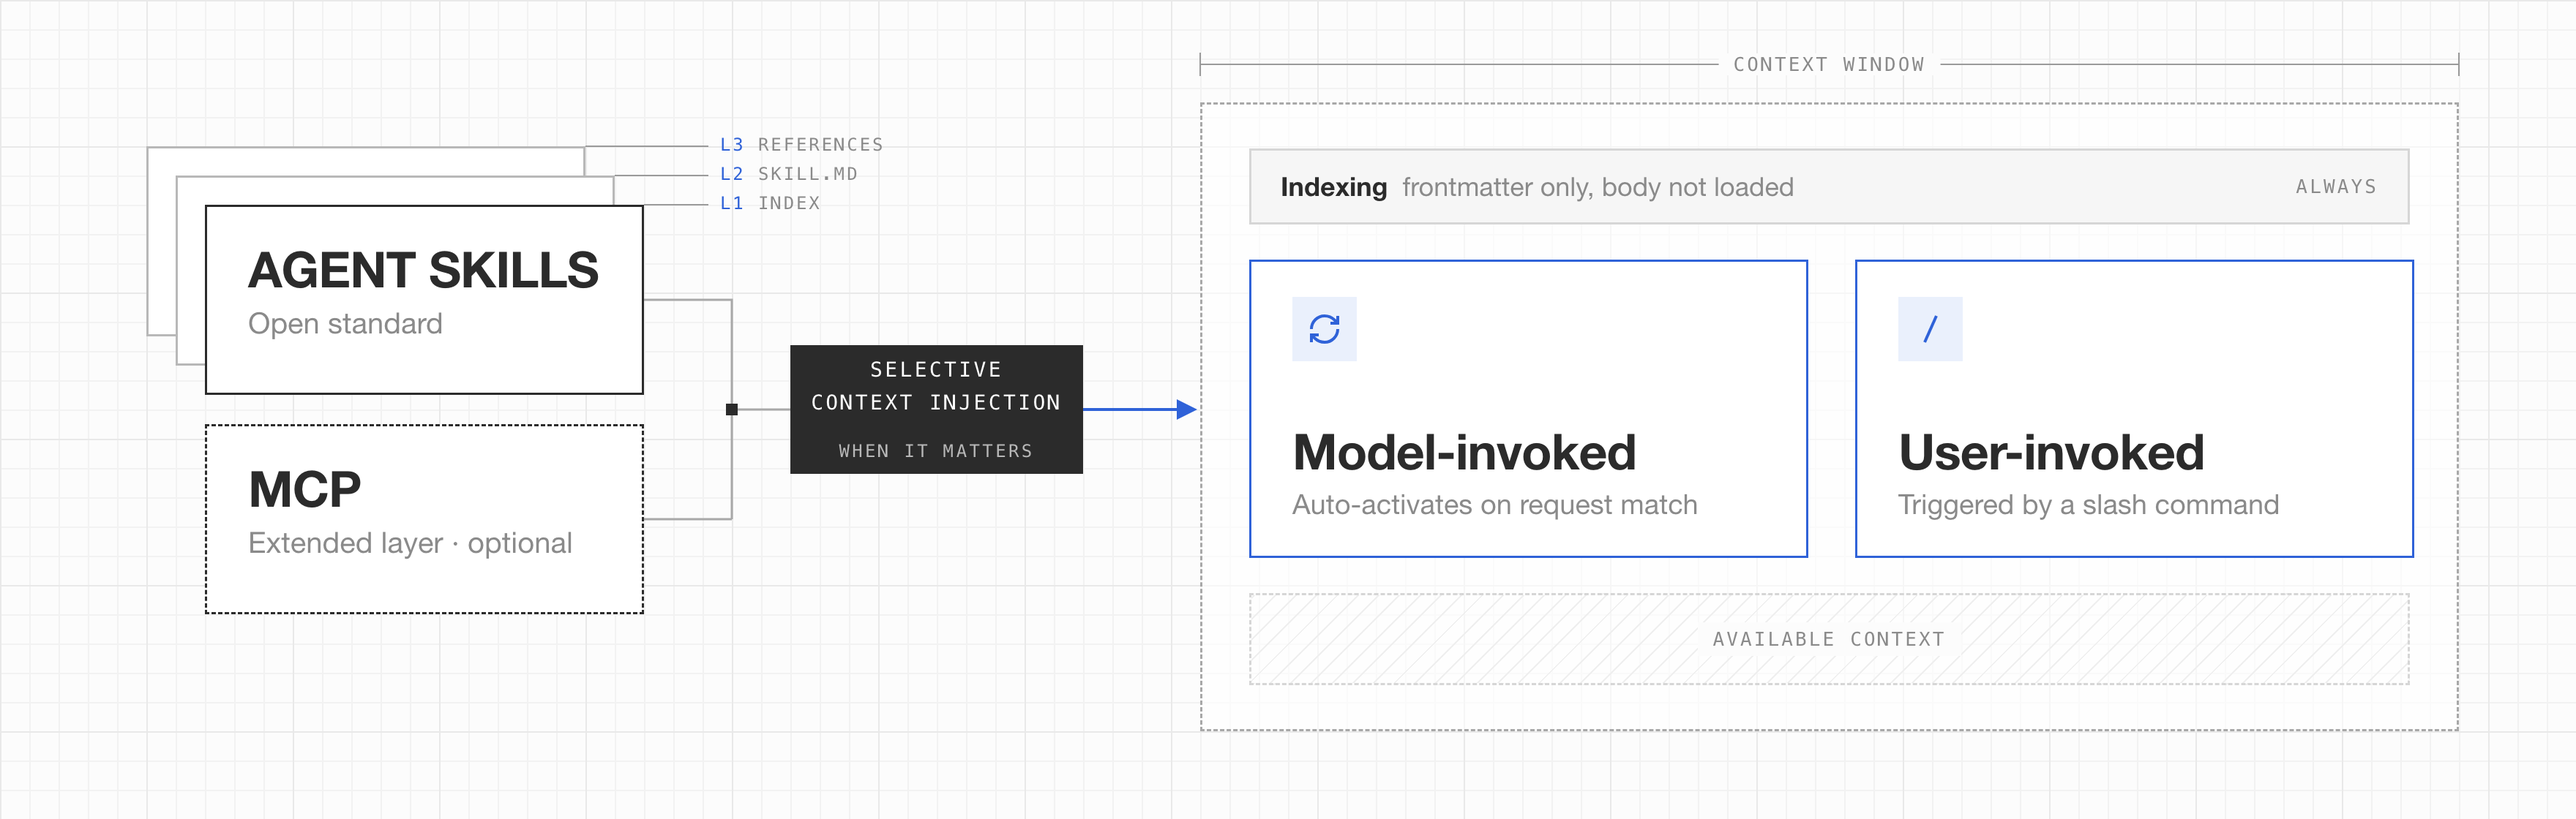
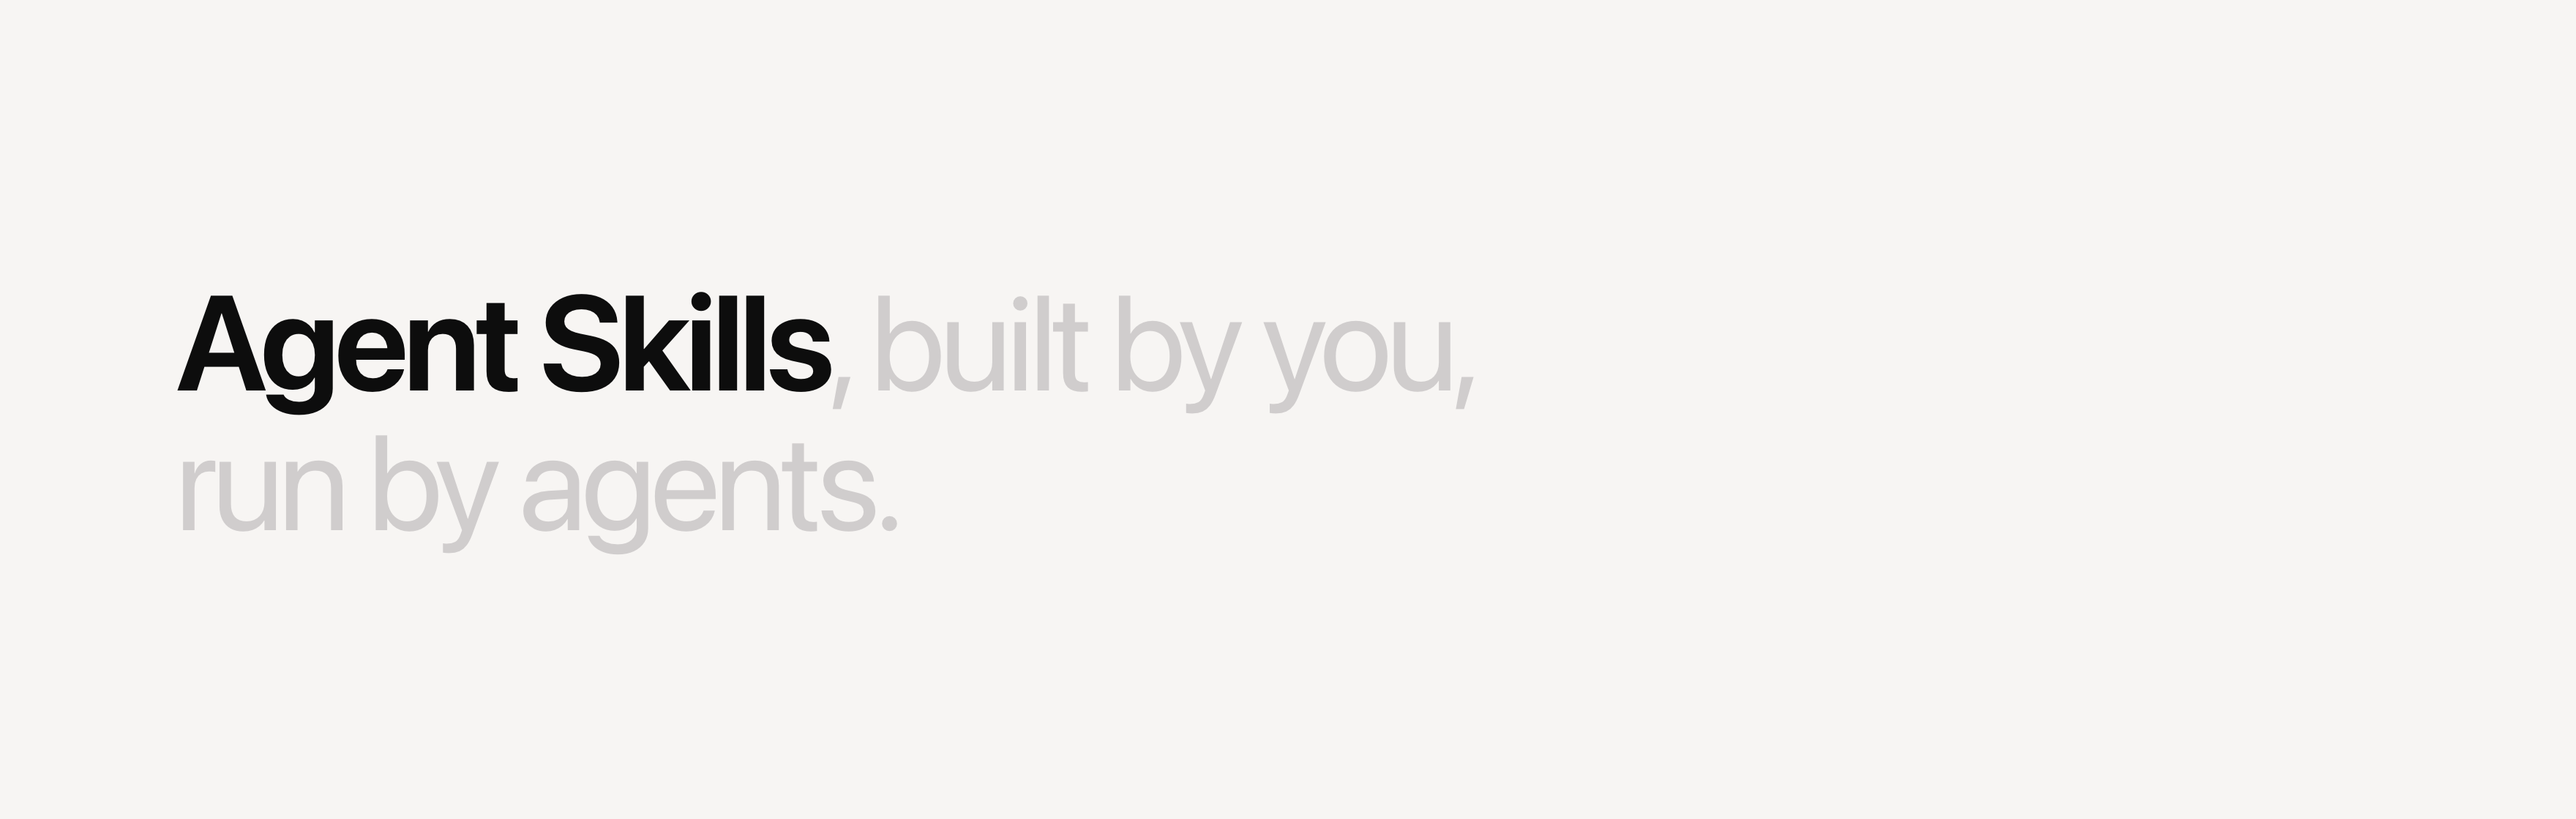
docs: rework readme and add concept image

diff --git a/.github/assets/preview.html b/.github/assets/preview.html
@@ -5,124 +5,31 @@
 <title>Agent Skills preview</title>
 <style>
   :root {
-    --ink: #2b2b2b;
-    --muted: #8a8a8a;
-    --faint: #b8b8b8;
-    --card: #ffffff;
-    --edge: #d6d6d6;
-    --bg: #fcfcfc;
-    --accent: #2f62d8;
-    --accent-soft: #eaf0fc;
+    --bg: #f7f5f3;
+    --ink: #0d0d0d;
+    --muted: #d0cdcd;
   }
   * { box-sizing: border-box; margin: 0; }
   html, body { width: 1760px; height: 560px; overflow: hidden; }
   body {
     position: relative;
-    font-family: "Helvetica Neue", Helvetica, Arial, sans-serif;
-    color: var(--ink);
-    background-color: var(--bg);
-    background-image:
-      linear-gradient(#e9e9e9 1px, transparent 1px),
-      linear-gradient(90deg, #e9e9e9 1px, transparent 1px),
-      linear-gradient(#f2f2f2 1px, transparent 1px),
-      linear-gradient(90deg, #f2f2f2 1px, transparent 1px);
-    background-size: 100px 100px, 100px 100px, 20px 20px, 20px 20px;
+    font-family: system-ui, -apple-system, BlinkMacSystemFont, sans-serif;
+    color: var(--muted);
+    background: var(--bg);
     -webkit-font-smoothing: antialiased;
+    text-rendering: optimizeLegibility;
+    user-select: none; -webkit-user-select: none;
   }
-  .mono { font-family: "SF Mono", ui-monospace, Menlo, monospace; letter-spacing: 0.12em; text-transform: uppercase; }
-  .code { font-family: "SF Mono", ui-monospace, Menlo, monospace; }
-  .abs { position: absolute; }
 
-  .bp { position: absolute; background: var(--card); border: 1.5px solid var(--ink); }
-
-  .card { padding: 24px 28px; }
-  .card h3 { font-size: 34px; font-weight: 600; letter-spacing: -0.015em; line-height: 1.1; }
-  .card p { font-size: 20px; color: var(--muted); margin-top: 6px; }
-
-  .tag {
-    left: 540px; top: 236px; width: 200px; height: 88px;
-    display: grid; place-items: center; text-align: center;
-    background: var(--ink); color: #fff; font-size: 14px; line-height: 1.6;
+  .t {
+    position: absolute; left: 120px; top: 0; height: 560px;
+    display: flex; align-items: center;
+    font-size: 92px; line-height: 1.04; letter-spacing: -0.035em;
   }
-  .tag small { display: block; color: var(--faint); font-size: 12px; }
-
-  .window { left: 820px; top: 70px; width: 860px; height: 430px; border: 1.5px dashed #a8a8a8; background: rgba(255,255,255,.6); }
-  .always {
-    position: absolute; left: 32px; right: 32px; top: 30px; height: 52px;
-    border: 1.5px solid var(--edge); background: #f6f6f6;
-    display: flex; align-items: center; justify-content: space-between; padding: 0 20px;
-    font-size: 18px; color: var(--muted);
-  }
-  .always b { color: var(--ink); font-weight: 600; }
-  .always .mono { font-size: 13px; }
-  .ctx { top: 106px; width: 382px; height: 204px; display: flex; flex-direction: column; justify-content: space-between; border-color: var(--accent); }
-  .ico { width: 44px; height: 44px; background: var(--accent-soft); display: grid; place-items: center; }
-  .ctx p { font-size: 19px; }
-  .free {
-    position: absolute; left: 32px; right: 32px; top: 334px; bottom: 30px;
-    border: 1.5px dashed var(--edge);
-    background: repeating-linear-gradient(-45deg, transparent 0 9px, #efefef 9px 10px);
-    display: grid; place-items: center; font-size: 13px; color: var(--muted);
-  }
-  .free span { background: var(--bg); padding: 4px 10px; }
-
-  .dim { font-size: 13px; color: var(--muted); background: var(--bg); padding: 0 10px; transform: translate(-50%, -50%); white-space: nowrap; }
-
-  svg.wires { position: absolute; inset: 0; pointer-events: none; }
-
-  .ghost { position: absolute; width: 300px; height: 130px; background: var(--card); border: 1.5px solid var(--faint); }
-  .lead { font-size: 12px; color: var(--muted); }
-  .lead b { color: var(--accent); font-weight: 400; }
-  .src { left: 140px; width: 300px; height: 130px; }
-  .mcp { border-style: dashed; }
+  .t b { color: var(--ink); font-weight: 650; }
 </style>
 </head>
 <body>
-
-<svg class="wires" width="1760" height="560" viewBox="0 0 1760 560" fill="none">
-  <path d="M820 36V52M1680 36V52M820 44H1680" stroke="#9a9a9a" stroke-width="1"/>
-  <path d="M740 280H806" stroke="#2f62d8" stroke-width="2"/>
-  <path d="M804 273 818 280 804 287z" fill="#2f62d8"/>
-
-  <g stroke="#a8a8a8" stroke-width="1.5">
-    <path d="M440 205H500V355M440 355H500M500 280H540"/>
-  </g>
-  <rect x="496" y="276" width="8" height="8" fill="#2b2b2b"/>
-  <g stroke="#9a9a9a" stroke-width="1" fill="none">
-    <path d="M400 100H484M420 120H484M440 140H484"/>
-  </g>
-</svg>
-
-<div class="ghost" style="left:100px;top:100px;"></div>
-<div class="ghost" style="left:120px;top:120px;"></div>
-<div class="bp card src" style="top:140px;">
-  <h3>AGENT SKILLS</h3><p>Open standard</p>
-</div>
-<div class="abs lead mono" style="left:492px;top:92px;"><b>L3</b> references</div>
-<div class="abs lead mono" style="left:492px;top:112px;"><b>L2</b> SKILL.md</div>
-<div class="abs lead mono" style="left:492px;top:132px;"><b>L1</b> index</div>
-
-<div class="bp card src mcp" style="top:290px;">
-  <h3>MCP</h3><p>Extended layer · optional</p>
-</div>
-
-<div class="abs dim mono" style="left:1250px;top:44px;">Context Window</div>
-
-<div class="abs tag mono">Selective<br>Context Injection<small>when it matters</small></div>
-
-<div class="abs window">
-  <div class="always"><span><b>Indexing</b> &nbsp;frontmatter only, body not loaded</span><span class="mono">Always</span></div>
-  <div class="bp card ctx" style="left:32px;">
-    <div class="ico"><svg width="24" height="24" viewBox="0 0 24 24" fill="none" stroke="#2f62d8" stroke-width="2" stroke-linejoin="miter"><path d="M3 12a9 9 0 0 1 9-9 9.75 9.75 0 0 1 6.74 2.74L21 8M21 3v5h-5M21 12a9 9 0 0 1-9 9 9.75 9.75 0 0 1-6.74-2.74L3 16M8 16H3v5"/></svg></div>
-    <div><h3>Model-invoked</h3><p>Auto-activates on request match</p></div>
-  </div>
-  <div class="bp card ctx" style="left:446px;">
-    <div class="ico"><svg width="24" height="24" viewBox="0 0 24 24" fill="none" stroke="#2f62d8" stroke-width="2"><path d="M16 3 8 21"/></svg></div>
-    <div><h3>User-invoked</h3><p>Triggered by a slash command</p></div>
-  </div>
-  <div class="free mono"><span>Available Context</span></div>
-</div>
-
-
+<p class="t"><span><b>Agent Skills</b>, built by you,<br>run by agents.</span></p>
 </body>
 </html>

diff --git a/.github/assets/concept.html b/.github/assets/concept.html
@@ -1,0 +1,86 @@
+<!doctype html>
+<html lang="en">
+<head>
+<meta charset="utf-8">
+<title>Agent Stack concept</title>
+<style>
+  :root {
+    --bg: #f7f5f3;
+    --card: #fbfbfa;
+    --ink: #0d0d0d;
+    --label: #757575;
+    --muted: #a8a5a5;
+    --border: rgba(13, 13, 13, .09);
+    --font-mono: ui-monospace, "SFMono-Regular", Menlo, Monaco, Consolas, monospace;
+  }
+  * { box-sizing: border-box; margin: 0; }
+  html, body { width: 1554px; height: 408px; overflow: hidden; }
+  body {
+    position: relative;
+    font-family: system-ui, -apple-system, BlinkMacSystemFont, sans-serif;
+    color: var(--ink);
+    background: var(--bg);
+    -webkit-font-smoothing: antialiased;
+    text-rendering: optimizeLegibility;
+    user-select: none; -webkit-user-select: none;
+  }
+
+  svg { position: absolute; inset: 0; pointer-events: none; z-index: 5; }
+
+  .card {
+    position: absolute; width: 236px; height: 132px; padding: 19px 20px 15px;
+    display: flex; flex-direction: column;
+    background: var(--card); border: 1px solid var(--border); border-radius: 0;
+    box-shadow: 0 1px 2px rgba(13, 13, 13, .05);
+  }
+  .card h3 { font-size: 32px; font-weight: 600; letter-spacing: -0.02em; line-height: 1.05; }
+  .card .sub { margin-top: 3px; font-family: var(--font-mono); font-size: 14px; color: var(--muted); white-space: nowrap; }
+  .card .foot { margin-top: auto; padding-top: 10px; display: flex; align-items: center; }
+  .pill {
+    padding: 2px 8px; background: #efeeec; color: var(--label);
+    font-size: 12px; font-weight: 700; letter-spacing: 0.08em; text-transform: uppercase;
+  }
+
+  .card.start { border-color: var(--ink); box-shadow: 0 0 0 5px rgba(13, 13, 13, .06); }
+  .card.start .pill { background: var(--ink); color: var(--bg); }
+  .card.solid { box-shadow: none; background: transparent; }
+  .card.mcp { background: #e8e6e4; box-shadow: none; }
+  .card.mcp .sub { color: #5f5c5c; }
+  .card.mcp .pill { background: rgba(13, 13, 13, .07); color: #4d4b4b; }
+
+  .label {
+    position: absolute; transform: translate(-50%, -50%); z-index: 6;
+    padding: 3px 6px; background: var(--bg);
+    font-family: var(--font-mono); font-size: 12px; line-height: 1; color: #8d8a8a; white-space: nowrap;
+  }
+</style>
+</head>
+<body>
+<svg width="1554" height="408" viewBox="0 0 1554 408" fill="none" stroke="#8d8a8a" stroke-width="1">
+  <path d="M364 114.5H478"/><path d="M718 114.5H832"/><path d="M1072 114.5H1186"/><path d="M600.5 180V224" stroke-dasharray="6 6.67"/>
+  <g fill="#8d8a8a" stroke="none"><path d="M482 114.5l-6 -3.5v7z"/><path d="M836 114.5l-6 -3.5v7z"/><path d="M1190 114.5l-6 -3.5v7z"/><path d="M600.5 228l-3.5 -6h7z"/></g>
+  <g fill="none"><path d="M128.5 64.5V48.5H144.5M347.5 48.5H363.5V64.5M363.5 163.5V179.5H347.5M144.5 179.5H128.5V163.5" stroke="rgba(13,13,13,.35)" stroke-width="1.75" stroke-linejoin="miter" stroke-linecap="butt"/><path d="M482.5 60.5V48.5H494.5M705.5 48.5H717.5V60.5M717.5 167.5V179.5H705.5M494.5 179.5H482.5V167.5" stroke="rgba(13,13,13,.35)" stroke-width="1.75" stroke-linejoin="miter" stroke-linecap="butt"/><path d="M836.5 60.5V48.5H848.5M1059.5 48.5H1071.5V60.5M1071.5 167.5V179.5H1059.5M848.5 179.5H836.5V167.5" stroke="rgba(13,13,13,.35)" stroke-width="1.75" stroke-linejoin="miter" stroke-linecap="butt"/><path d="M1190.5 60.5V48.5H1202.5M1413.5 48.5H1425.5V60.5M1425.5 167.5V179.5H1413.5M1202.5 179.5H1190.5V167.5" stroke="rgba(13,13,13,.35)" stroke-width="1.75" stroke-linejoin="miter" stroke-linecap="butt"/><path d="M482.5 240.5V228.5H494.5M705.5 228.5H717.5V240.5M717.5 347.5V359.5H705.5M494.5 359.5H482.5V347.5" stroke="rgba(13,13,13,.35)" stroke-width="1.75" stroke-linejoin="miter" stroke-linecap="butt"/></g>
+</svg>
+<div class="label" style="left:423px; top:114.5px">Redirects</div><div class="label" style="left:777px; top:114.5px">References</div><div class="label" style="left:1131px; top:114.5px">Loads</div>
+<div class="card start" style="left:128px; top:48px">
+  <h3>AGENTS.md</h3><div class="sub">Entry point, kept short</div>
+  <div class="foot"><span class="pill">Entry</span></div>
+</div>
+<div class="card " style="left:482px; top:48px">
+  <h3>Skill</h3><div class="sub">Domain rules</div>
+  <div class="foot"><span class="pill">Context</span></div>
+</div>
+<div class="card solid" style="left:836px; top:48px">
+  <h3>Playbook</h3><div class="sub">Defined procedure</div>
+  <div class="foot"><span class="pill">Reference</span></div>
+</div>
+<div class="card " style="left:1190px; top:48px">
+  <h3>Skill</h3><div class="sub">Loaded on demand</div>
+  <div class="foot"><span class="pill">Context</span></div>
+</div>
+<div class="card mcp" style="left:482px; top:228px">
+  <h3>MCP Server</h3><div class="sub">External Connection</div>
+  <div class="foot"><span class="pill">Optional</span></div>
+</div>
+</body>
+</html>

diff --git a/README.md b/README.md
@@ -1,18 +1,20 @@
-![Agent Skills](.github/assets/preview.png)
+![Agent Skills](.github/assets/preview-animated.svg)
 
-<div align="center">
+The agent stack, or profile, is a curated selection of what an agent works with: the skills it follows, the MCP servers it calls, and the scripts it runs.
 
-Agent Skills, built by you, run by agents. Follows the [Agent Skills](https://agentskills.io/home) open standard.
+## The Concept
 
-Curated Agent Stack, production-tested. Context, loaded when it matters.
+Context, loaded when it matters. [`AGENTS.md`](AGENTS.md) stays short and redirects the agent to a skill. The skill references a playbook, and the playbook loads further skills on demand. The concept builds on the [Agent Skills](https://agentskills.io/home) open standard.
 
-</div>
+![AGENTS.md redirects to a skill, the skill references a playbook, and the playbook loads another skill. A skill may call an optional MCP server.](.github/assets/concept@2x.png)
 
-## Agent Skills
+MCP servers are optional, and this repo only links them. The [Agent Plugins specification](https://agent-plugins.org/specification) describes skills and MCP servers as the two parts of a plugin. This repo ships no `plugin.json` or `mcp.json`, so it follows the idea but not the format.
+
+## Skills
 
 Skills are either **Model-invoked**, where the agent activates them when your request matches, or **User-invoked** via a slash command like `/triage`.
 
-**Upstream** skills are mirrored, not forked. Their authors own them; a weekly sync keeps them updated.
+A few skills come from **Upstream** authors, mirrored and not forked. A weekly sync keeps them updated.
 
 ### Engineering
 
@@ -32,9 +34,9 @@ Skills are either **Model-invoked**, where the agent activates them when your re
 - [obsidian-cli](skills/obsidian-cli/): Read, search, and manage Obsidian via CLI. **Upstream**, Author: [Steph Ango](https://github.com/kepano/obsidian-skills/tree/main/skills/obsidian-cli)
 - [anatomy](skills/anatomy/): Animated isometric SVG illustrations. **Upstream**, Author: [Ryan](https://github.com/wheresryan22/anatomy)
 
-## Extended Layer
+## MCP Servers
 
-Recommended, not required. Extra tools for the agent, over MCP.
+Optional, not required. Extra tools for the agent, over MCP.
 
-- Type: **MCP** | [fff](https://github.com/dmtrKovalenko/fff)
-- Type: **MCP** | [Chrome DevTools](https://github.com/ChromeDevTools/chrome-devtools-mcp)
+- [fff](https://github.com/dmtrKovalenko/fff): Fast file and content search, with recent and changed files ranked first
+- [Chrome DevTools](https://github.com/ChromeDevTools/chrome-devtools-mcp): Browser debugging, automation, and performance analysis
